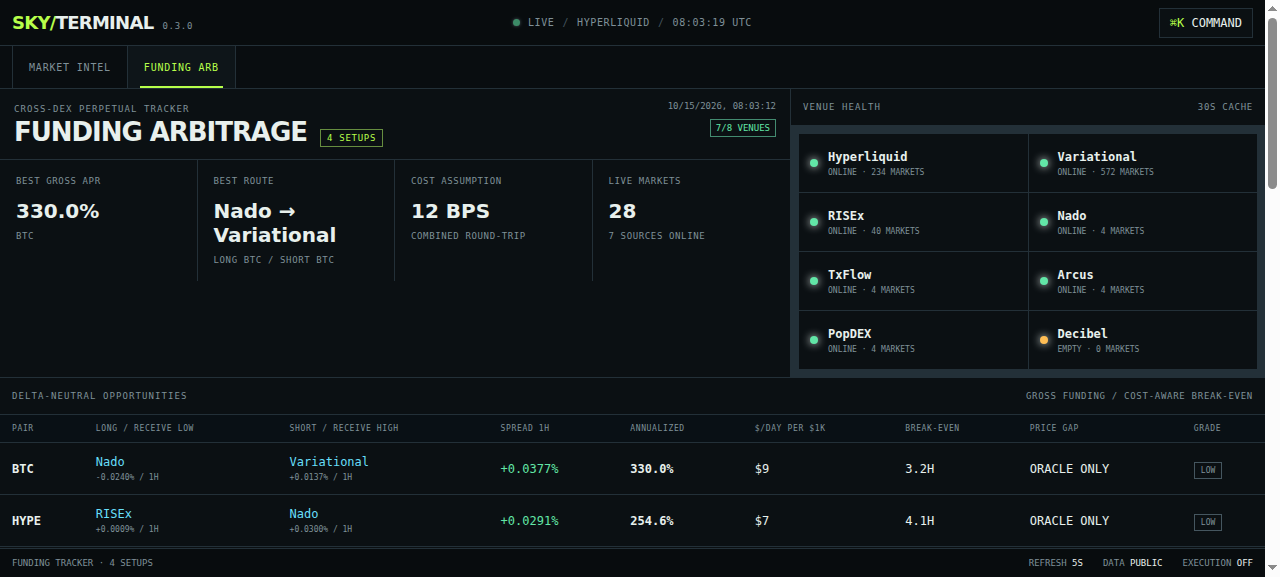
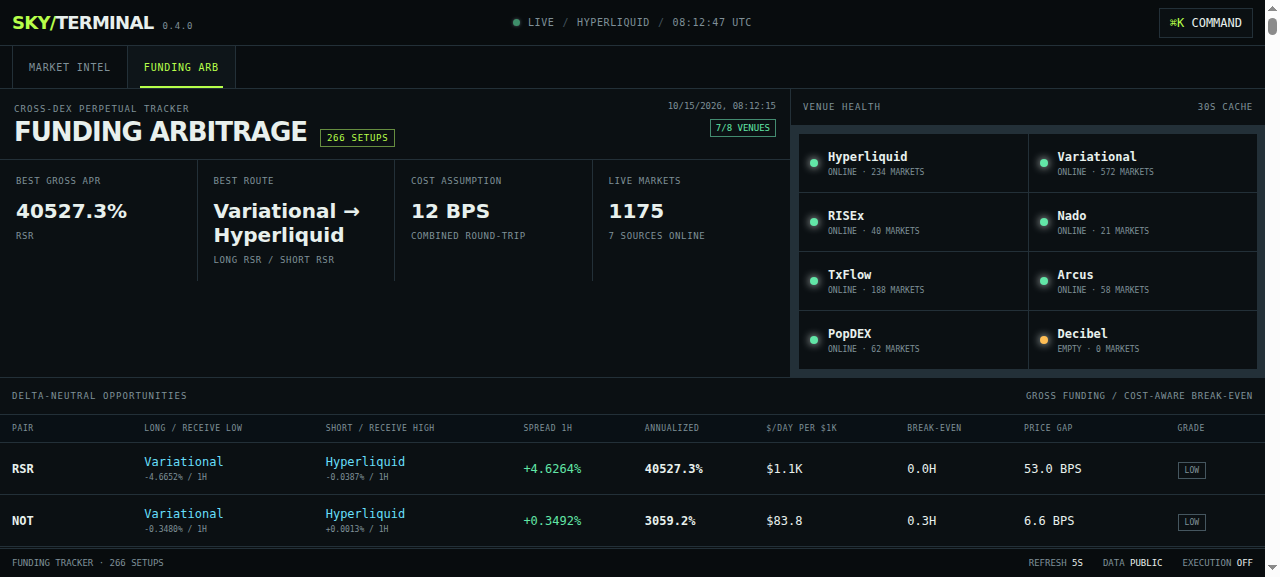
feat: scan all funding markets and add Vercel deployment

diff --git a/lib/funding.js b/lib/funding.js
@@ -1,7 +1,10 @@
 import { hyperliquidPost } from './hyperliquid.js';
 
-const FOCUS_ASSETS = ['BTC', 'ETH', 'SOL', 'HYPE'];
-const NADO_IDS = { 2: 'BTC', 4: 'ETH', 8: 'SOL', 16: 'HYPE' };
+const NADO_IDS = {
+  2: 'BTC', 4: 'ETH', 8: 'SOL', 10: 'XRP', 14: 'BNB', 16: 'HYPE', 18: 'ZEC', 20: 'DOGE',
+  22: 'PEPE', 24: 'AVAX', 26: 'SOL-PERP2', 28: 'TAO', 32: 'SUI', 34: 'MATIC', 36: 'LINK',
+  40: 'WIF', 42: 'BONK', 44: 'FLOKI', 46: 'ENA', 48: 'ARB', 50: 'OP',
+};
 
 export function normalizeTicker(ticker) {
   return String(ticker ?? '').toUpperCase().trim()
@@ -27,8 +30,8 @@ function validMarket(item) {
     && Number.isFinite(item.volume24h) && item.volume24h >= 0;
 }
 
-export function findFundingArbitrage(data, { focusAssets = FOCUS_ASSETS, roundTripCostBps = 12 } = {}) {
-  const focus = new Set(focusAssets.map(normalizeTicker));
+export function findFundingArbitrage(data, { focusAssets = null, roundTripCostBps = 12 } = {}) {
+  const focus = Array.isArray(focusAssets) && focusAssets.length ? new Set(focusAssets.map(normalizeTicker)) : null;
   const grouped = new Map();
   for (const raw of data) {
     const item = {
@@ -38,7 +41,7 @@ export function findFundingArbitrage(data, { focusAssets = FOCUS_ASSETS, roundTr
       fundingRate1h: Number(raw?.fundingRate1h),
       volume24h: Number(raw?.volume24h),
     };
-    if (!validMarket(item) || (focus.size && !focus.has(item.ticker))) continue;
+    if (!validMarket(item) || (focus && !focus.has(item.ticker))) continue;
     if (!grouped.has(item.ticker)) grouped.set(item.ticker, []);
     grouped.get(item.ticker).push(item);
   }
@@ -91,12 +94,11 @@ async function requestJSON(url, options = {}, timeoutMs = 10_000) {
 const PROFUNDING_URL = 'https://profunding.pro/api/api/opportunities';
 let proFundingCache = { at: 0, pending: null, value: null };
 
-async function fetchProFundingFocusOpportunities() {
+async function fetchProFundingOpportunities() {
   const now = Date.now();
   if (proFundingCache.value && now - proFundingCache.at < 20_000) return proFundingCache.value;
   if (proFundingCache.pending) return proFundingCache.pending;
-  const pending = Promise.all(FOCUS_ASSETS.map((asset) => requestJSON(`${PROFUNDING_URL}?symbol=${encodeURIComponent(`${asset}/USDC`)}`)))
-    .then((groups) => groups.flat());
+  const pending = requestJSON(PROFUNDING_URL, {}, 20_000);
   proFundingCache = { ...proFundingCache, pending };
   try {
     const value = await pending;
@@ -138,7 +140,7 @@ export function extractProFundingVenueMarkets(opportunities, venue) {
 }
 
 export async function fetchProFundingVenueFunding(venue) {
-  return extractProFundingVenueMarkets(await fetchProFundingFocusOpportunities(), venue);
+  return extractProFundingVenueMarkets(await fetchProFundingOpportunities(), venue);
 }
 
 export async function fetchHyperliquidFunding() {
@@ -231,7 +233,7 @@ export const defaultFundingSources = Object.freeze({
   Decibel: fetchDecibelFunding,
 });
 
-export async function buildFundingSnapshot({ sources = defaultFundingSources, focusAssets = FOCUS_ASSETS, roundTripCostBps = 12 } = {}) {
+export async function buildFundingSnapshot({ sources = defaultFundingSources, focusAssets = null, roundTripCostBps = 12 } = {}) {
   const entries = Object.entries(sources);
   const settled = await Promise.allSettled(entries.map(([, loader]) => loader()));
   const sourceHealth = {};
@@ -246,12 +248,12 @@ export async function buildFundingSnapshot({ sources = defaultFundingSources, fo
       sourceHealth[name] = { status: 'offline', markets: 0, error: result.reason?.message || 'unavailable' };
     }
   });
-  const focus = new Set(focusAssets.map(normalizeTicker));
+  const focus = Array.isArray(focusAssets) && focusAssets.length ? new Set(focusAssets.map(normalizeTicker)) : null;
   const focusedMarkets = markets
-    .filter((market) => focus.has(normalizeTicker(market.ticker)))
+    .filter((market) => !focus || focus.has(normalizeTicker(market.ticker)))
     .map((market) => ({ ...market, ticker: normalizeTicker(market.ticker) }));
   return {
-    asOf: new Date().toISOString(), focusAssets: [...focus], roundTripCostBps,
+    asOf: new Date().toISOString(), focusAssets: focus ? [...focus] : ['ALL'], roundTripCostBps,
     sources: sourceHealth,
     markets: focusedMarkets.sort((a, b) => normalizeTicker(a.ticker).localeCompare(normalizeTicker(b.ticker)) || a.dex.localeCompare(b.dex)),
     opportunities: findFundingArbitrage(focusedMarkets, { focusAssets, roundTripCostBps }),

diff --git a/public/styles.css b/public/styles.css
@@ -127,6 +127,9 @@ canvas { display: block; width: 100%; height: 100%; }
 .grade { padding: 3px 6px; border: 1px solid var(--line-hot); font-size: 8px; }.grade.high { color: var(--positive); border-color: var(--positive); }.grade.medium { color: var(--amber); border-color: var(--amber); }.grade.low { color: var(--muted); }
 .empty-cell { text-align: center; color: var(--muted) !important; padding: 28px !important; }
 .compact-table td { padding-top: 9px; padding-bottom: 9px; }
+.funding-filter { display: flex; align-items: center; gap: 7px; color: var(--muted); }
+.funding-filter input { width: 170px; border: 1px solid var(--line); background: #080c0e; color: var(--ink); padding: 5px 7px; outline: 0; font-size: 9px; }
+.funding-filter input:focus { border-color: var(--signal); }
 .statusbar { min-height: 29px; display: flex; align-items: center; gap: 20px; padding: 0 12px; color: var(--muted); font-size: 9px; position: sticky; bottom: 0; background: #080c0e; border-top: 1px solid var(--line); z-index: 8; }.statusbar span:first-child { margin-right: auto; }.statusbar b { color: var(--ink); font-weight: 500; }
 .command-dialog { width: min(620px, calc(100vw - 24px)); padding: 0; color: var(--ink); background: var(--surface); border: 1px solid var(--line-hot); box-shadow: 0 24px 80px #000; }.command-dialog::backdrop { background: rgba(0,0,0,.72); }.command-input-row { display: flex; gap: 10px; align-items: center; padding: 15px; border-bottom: 1px solid var(--line); color: var(--signal); }.command-input-row input { flex: 1; border: 0; outline: 0; background: transparent; color: var(--ink); font-size: 15px; }.command-help { display: flex; flex-wrap: wrap; gap: 7px; padding: 12px; }.command-help button { background: #0c1317; border: 1px solid var(--line); padding: 7px 10px; cursor: pointer; }.command-help button:hover { border-color: var(--signal); }
 .error-panel { color: var(--danger); }

diff --git a/public/app.js b/public/app.js
@@ -216,6 +216,7 @@ function renderFunding(data) {
     const annualized = item.fundingRate1h * 24 * 365 * 100;
     return `<tr><td><strong>${esc(item.ticker)}</strong></td><td>${esc(item.dex)}</td><td>${item.markPrice == null ? 'N/A' : `$${fmtPrice(item.markPrice)}`}</td><td class="${item.fundingRate1h >= 0 ? 'positive' : 'negative'}">${pct(item.fundingRate1h, 4)}</td><td>${annualized >= 0 ? '+' : ''}${annualized.toFixed(1)}%</td><td>${item.volume24h > 0 ? compactUSD(item.volume24h) : 'N/A'}</td></tr>`;
   }).join('') || '<tr><td colspan="6" class="empty-cell">NO FUNDING DATA AVAILABLE</td></tr>';
+  filterFundingRows();
 }
 
 async function loadFunding() {
@@ -247,6 +248,13 @@ function runCommand(raw) {
   else if (cmd === 'refresh') state.mode === 'funding' ? loadFunding() : loadAll();
 }
 
+function filterFundingRows() {
+  const query = $('#fundingFilter').value.trim().toUpperCase();
+  document.querySelectorAll('#fundingRows tr').forEach((row) => {
+    row.hidden = Boolean(query) && !row.textContent.toUpperCase().includes(query);
+  });
+}
+
 function setupCommands() {
   const dialog = $('#commandDialog'), input = $('#commandInput');
   const open = () => { dialog.showModal(); setTimeout(() => input.focus(), 0); };
@@ -255,6 +263,7 @@ function setupCommands() {
   input.addEventListener('keydown', (event) => { if (event.key === 'Enter') { event.preventDefault(); runCommand(input.value); input.value = ''; dialog.close(); } });
   document.querySelectorAll('[data-command]').forEach((button) => button.addEventListener('click', () => runCommand(button.dataset.command)));
   document.querySelectorAll('[data-mode]').forEach((button) => button.addEventListener('click', () => selectMode(button.dataset.mode)));
+  $('#fundingFilter').addEventListener('input', filterFundingRows);
 }
 
 function tickClock() { $('#clock').textContent = `${new Date().toISOString().slice(11, 19)} UTC`; }

diff --git a/test/funding.test.js b/test/funding.test.js
@@ -64,6 +64,20 @@ test('findFundingArbitrage drops malformed and non-overlapping markets', () => {
   assert.deepEqual(opportunities, []);
 });
 
+test('buildFundingSnapshot keeps every market when no funding filter is provided', async () => {
+  const sources = {
+    Alpha: async () => [
+      { dex: 'Alpha', ticker: 'BTC', markPrice: 100, fundingRate1h: 0.0001, volume24h: 1_000_000 },
+      { dex: 'Alpha', ticker: 'DOGE', markPrice: 0.2, fundingRate1h: -0.0001, volume24h: 2_000_000 },
+    ],
+    Beta: async () => [{ dex: 'Beta', ticker: 'DOGE', markPrice: 0.2, fundingRate1h: 0.0002, volume24h: 2_000_000 }],
+  };
+  const snapshot = await buildFundingSnapshot({ sources });
+  assert.deepEqual(snapshot.focusAssets, ['ALL']);
+  assert.equal(snapshot.markets.length, 3);
+  assert.equal(snapshot.opportunities[0].pair, 'DOGE');
+});
+
 test('buildFundingSnapshot reports source health and focus assets', async () => {
   const sources = {
     Alpha: async () => [{ dex: 'Alpha', ticker: 'BTC', markPrice: 100, fundingRate1h: -0.0001, volume24h: 1_000_000 }],

diff --git a/public/index.html b/public/index.html
@@ -12,7 +12,7 @@
   <header class="topbar">
     <div class="brand" aria-label="Skyterminal">
       <span class="brand-mark">SKY/</span><span class="brand-name">TERMINAL</span>
-      <span class="build">0.3.0</span>
+      <span class="build">0.4.0</span>
     </div>
     <div class="session-strip">
       <span class="live-dot" id="liveDot"></span>
@@ -134,7 +134,7 @@
     </section>
 
     <section class="panel rate-panel">
-      <header class="panel-head compact"><span class="eyebrow">FUNDING RATE MATRIX</span><span>HOURLY NORMALIZED</span></header>
+      <header class="panel-head compact"><span class="eyebrow">FUNDING RATE MATRIX · ALL MARKETS</span><label class="funding-filter">FILTER <input id="fundingFilter" type="search" placeholder="PAIR OR VENUE" autocomplete="off"></label></header>
       <div class="table-scroll">
         <table class="arb-table compact-table">
           <thead><tr><th>PAIR</th><th>VENUE</th><th>MARK</th><th>RATE / 1H</th><th>ANNUALIZED</th><th>24H VOLUME</th></tr></thead>

diff --git a/test/vercel.test.js b/test/vercel.test.js
@@ -1,0 +1,19 @@
+import test from 'node:test';
+import assert from 'node:assert/strict';
+import { GET as healthGET } from '../api/health.js';
+import { GET as marketGET } from '../api/market.js';
+
+test('Vercel health function exposes split market universes', async () => {
+  const response = await healthGET();
+  const body = await response.json();
+  assert.equal(response.status, 200);
+  assert.deepEqual(body.marketIntelAssets, ['BTC', 'ETH', 'SOL', 'HYPE']);
+  assert.equal(body.fundingUniverse, 'ALL');
+});
+
+test('Vercel market function rejects assets outside Market Intel universe', async () => {
+  const response = await marketGET(new Request('https://skyterminal.test/api/market?coin=DOGE&interval=5m'));
+  const body = await response.json();
+  assert.equal(response.status, 400);
+  assert.match(body.error, /Unsupported asset/);
+});

diff --git a/api/_response.js b/api/_response.js
@@ -1,0 +1,21 @@
+const SECURITY_HEADERS = {
+  'content-type': 'application/json; charset=utf-8',
+  'cache-control': 'no-store',
+  'x-content-type-options': 'nosniff',
+  'x-frame-options': 'DENY',
+  'referrer-policy': 'no-referrer',
+  'permissions-policy': 'camera=(), microphone=(), geolocation=()',
+};
+
+export function json(value, status = 200, extraHeaders = {}) {
+  return new Response(JSON.stringify(value), {
+    status,
+    headers: { ...SECURITY_HEADERS, ...extraHeaders },
+  });
+}
+
+export function errorResponse(error) {
+  const isClientError = /^Unsupported (asset|interval):/.test(error?.message ?? '');
+  const status = Number.isInteger(error?.statusCode) ? error.statusCode : isClientError ? 400 : 500;
+  return json({ error: error instanceof Error ? error.message : String(error) }, status);
+}

diff --git a/server.js b/server.js
@@ -108,7 +108,7 @@ export function createAppServer({ marketLoader = defaultMarketLoader, midsLoader
     inFlight += 1;
     try {
       if (url.pathname === '/api/health') {
-        return sendJson(response, 200, { name: 'Skyterminal', status: 'ok', version: '0.3.0', sources: ['Hyperliquid', 'Variational', 'RISEx', 'Nado', 'TxFlow', 'Arcus', 'PopDEX', 'Decibel'] });
+        return sendJson(response, 200, { name: 'Skyterminal', status: 'ok', version: '0.4.0', marketIntelAssets: ['BTC', 'ETH', 'SOL', 'HYPE'], fundingUniverse: 'ALL', sources: ['Hyperliquid', 'Variational', 'RISEx', 'Nado', 'TxFlow', 'Arcus', 'PopDEX', 'Decibel'] });
       }
       if (url.pathname === '/api/overview') {
         return sendJson(response, 200, { asOf: new Date().toISOString(), mids: await getMids() });

diff --git a/api/market.js b/api/market.js
@@ -1,0 +1,16 @@
+import { fetchMarketData } from '../lib/hyperliquid.js';
+import { buildMarketSnapshot } from '../lib/indicators.js';
+import { json, errorResponse } from './_response.js';
+
+export const runtime = 'nodejs';
+
+export async function GET(request) {
+  try {
+    const url = new URL(request.url);
+    const coin = String(url.searchParams.get('coin') ?? 'BTC').toUpperCase();
+    const interval = String(url.searchParams.get('interval') ?? '5m');
+    return json(buildMarketSnapshot(await fetchMarketData(coin, interval, 300)));
+  } catch (error) {
+    return errorResponse(error);
+  }
+}

diff --git a/api/funding.js b/api/funding.js
@@ -1,0 +1,13 @@
+import { buildFundingSnapshot } from '../lib/funding.js';
+import { json, errorResponse } from './_response.js';
+
+export const runtime = 'nodejs';
+export const maxDuration = 30;
+
+export async function GET() {
+  try {
+    return json(await buildFundingSnapshot(), 200, { 'cache-control': 'public, s-maxage=20, stale-while-revalidate=40' });
+  } catch (error) {
+    return errorResponse(error);
+  }
+}

diff --git a/api/health.js b/api/health.js
@@ -1,0 +1,14 @@
+import { json } from './_response.js';
+
+export const runtime = 'nodejs';
+
+export async function GET() {
+  return json({
+    name: 'Skyterminal',
+    status: 'ok',
+    version: '0.4.0',
+    marketIntelAssets: ['BTC', 'ETH', 'SOL', 'HYPE'],
+    fundingUniverse: 'ALL',
+    sources: ['Hyperliquid', 'Variational', 'RISEx', 'Nado', 'TxFlow', 'Arcus', 'PopDEX', 'Decibel'],
+  });
+}

diff --git a/api/overview.js b/api/overview.js
@@ -1,0 +1,12 @@
+import { fetchAllMids } from '../lib/hyperliquid.js';
+import { json, errorResponse } from './_response.js';
+
+export const runtime = 'nodejs';
+
+export async function GET() {
+  try {
+    return json({ asOf: new Date().toISOString(), mids: await fetchAllMids() });
+  } catch (error) {
+    return errorResponse(error);
+  }
+}
